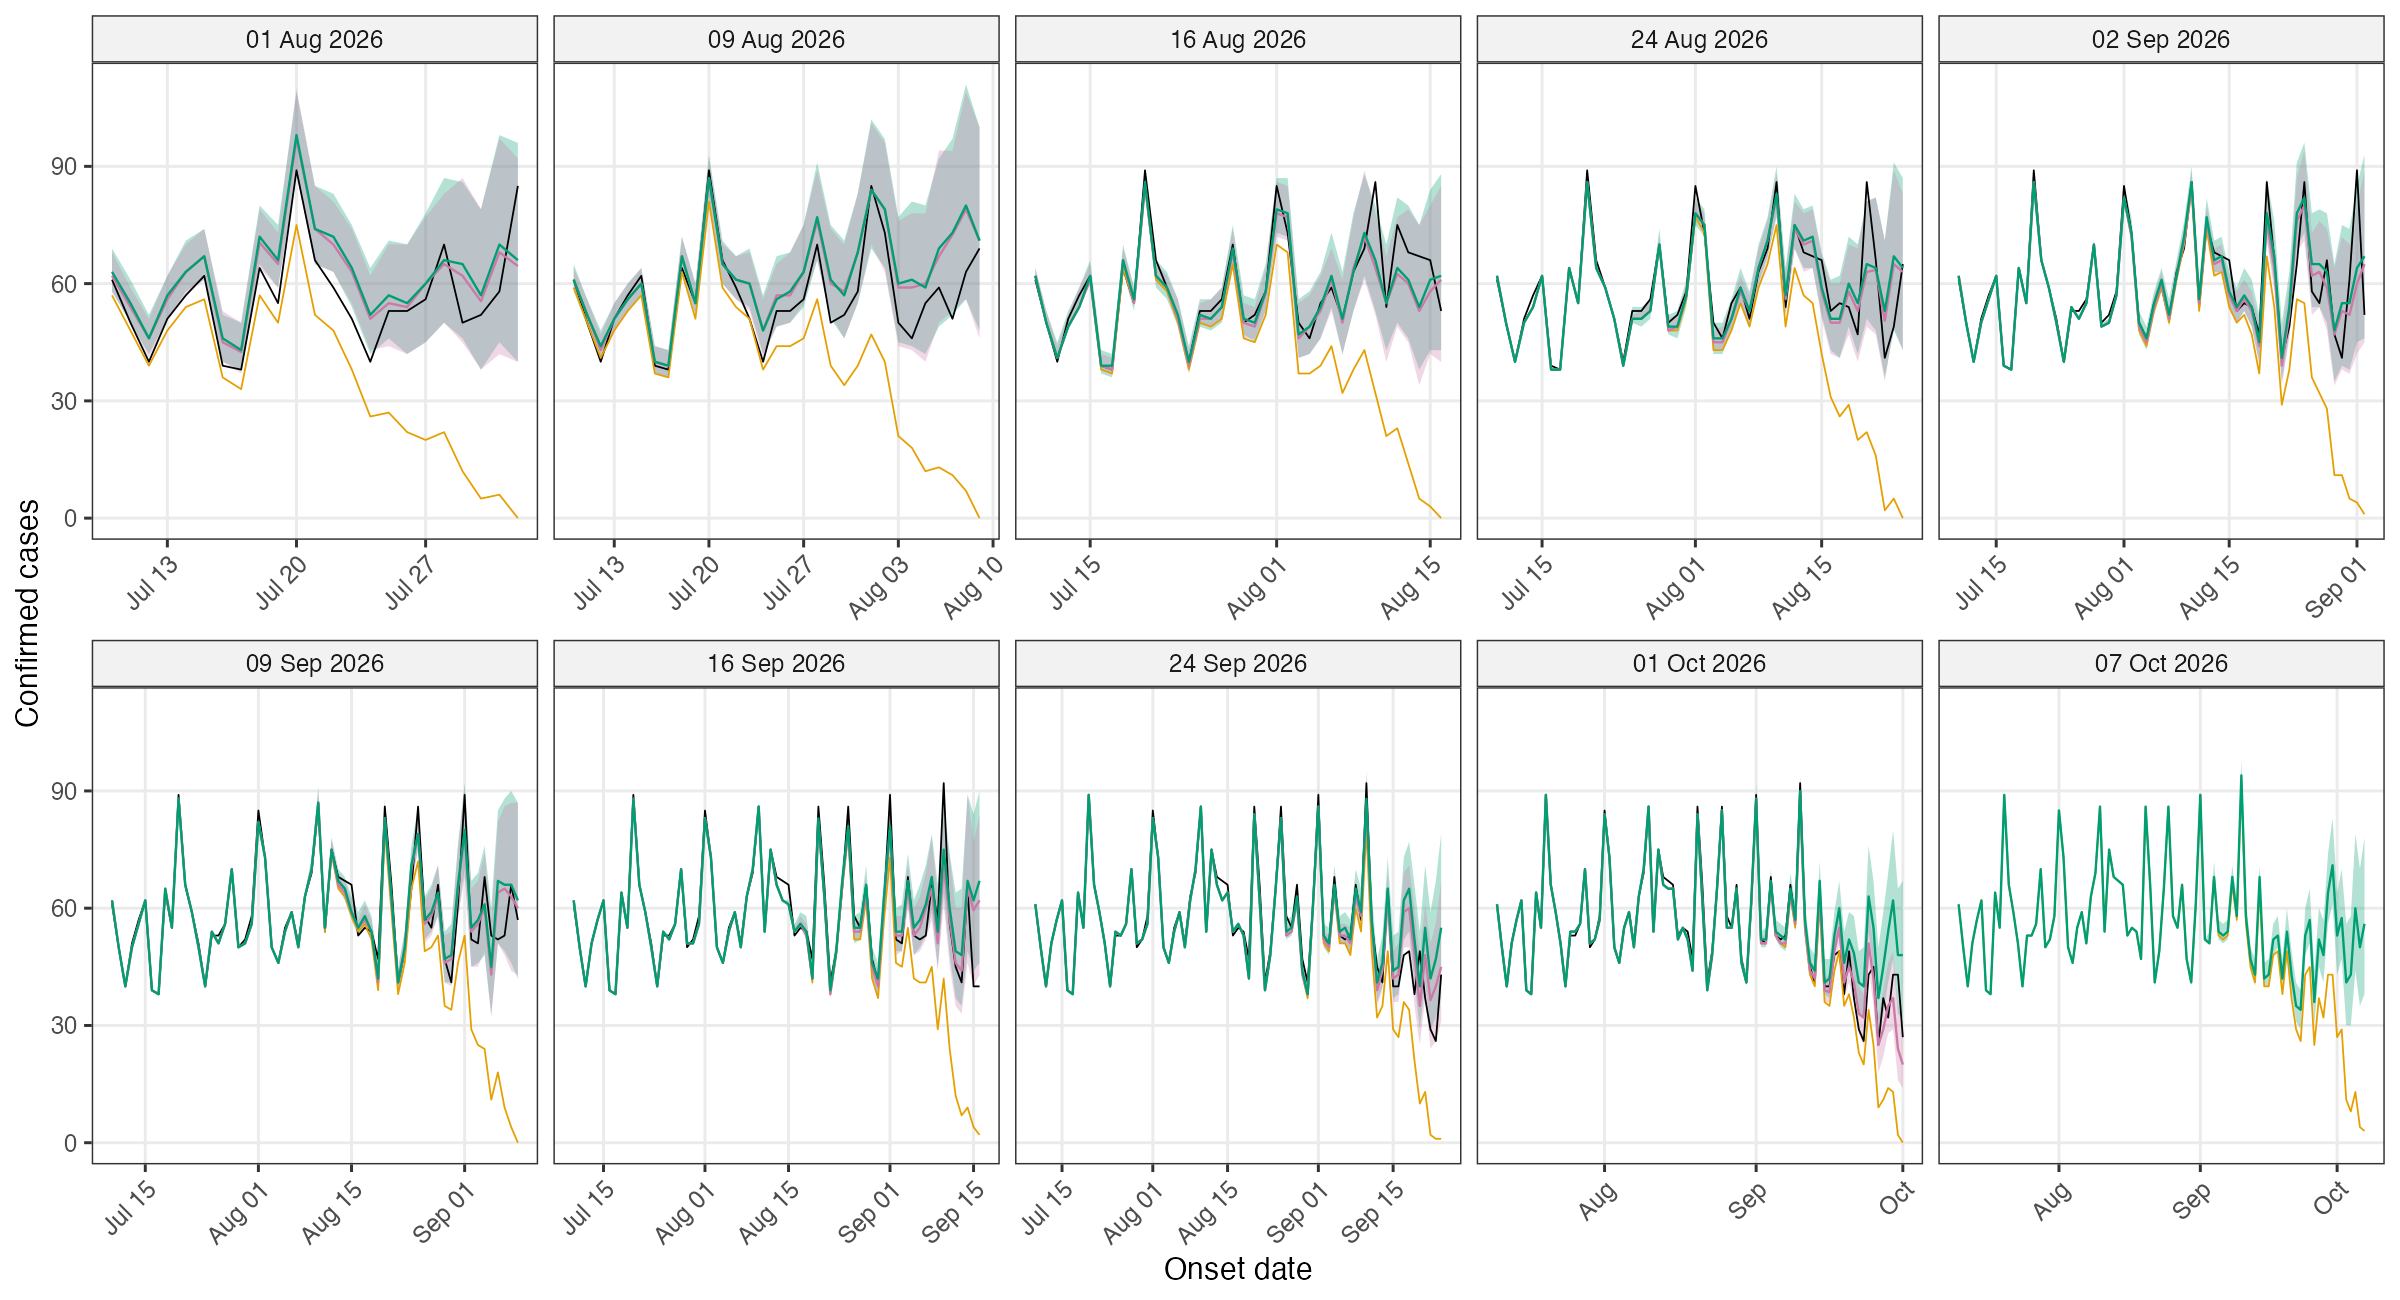
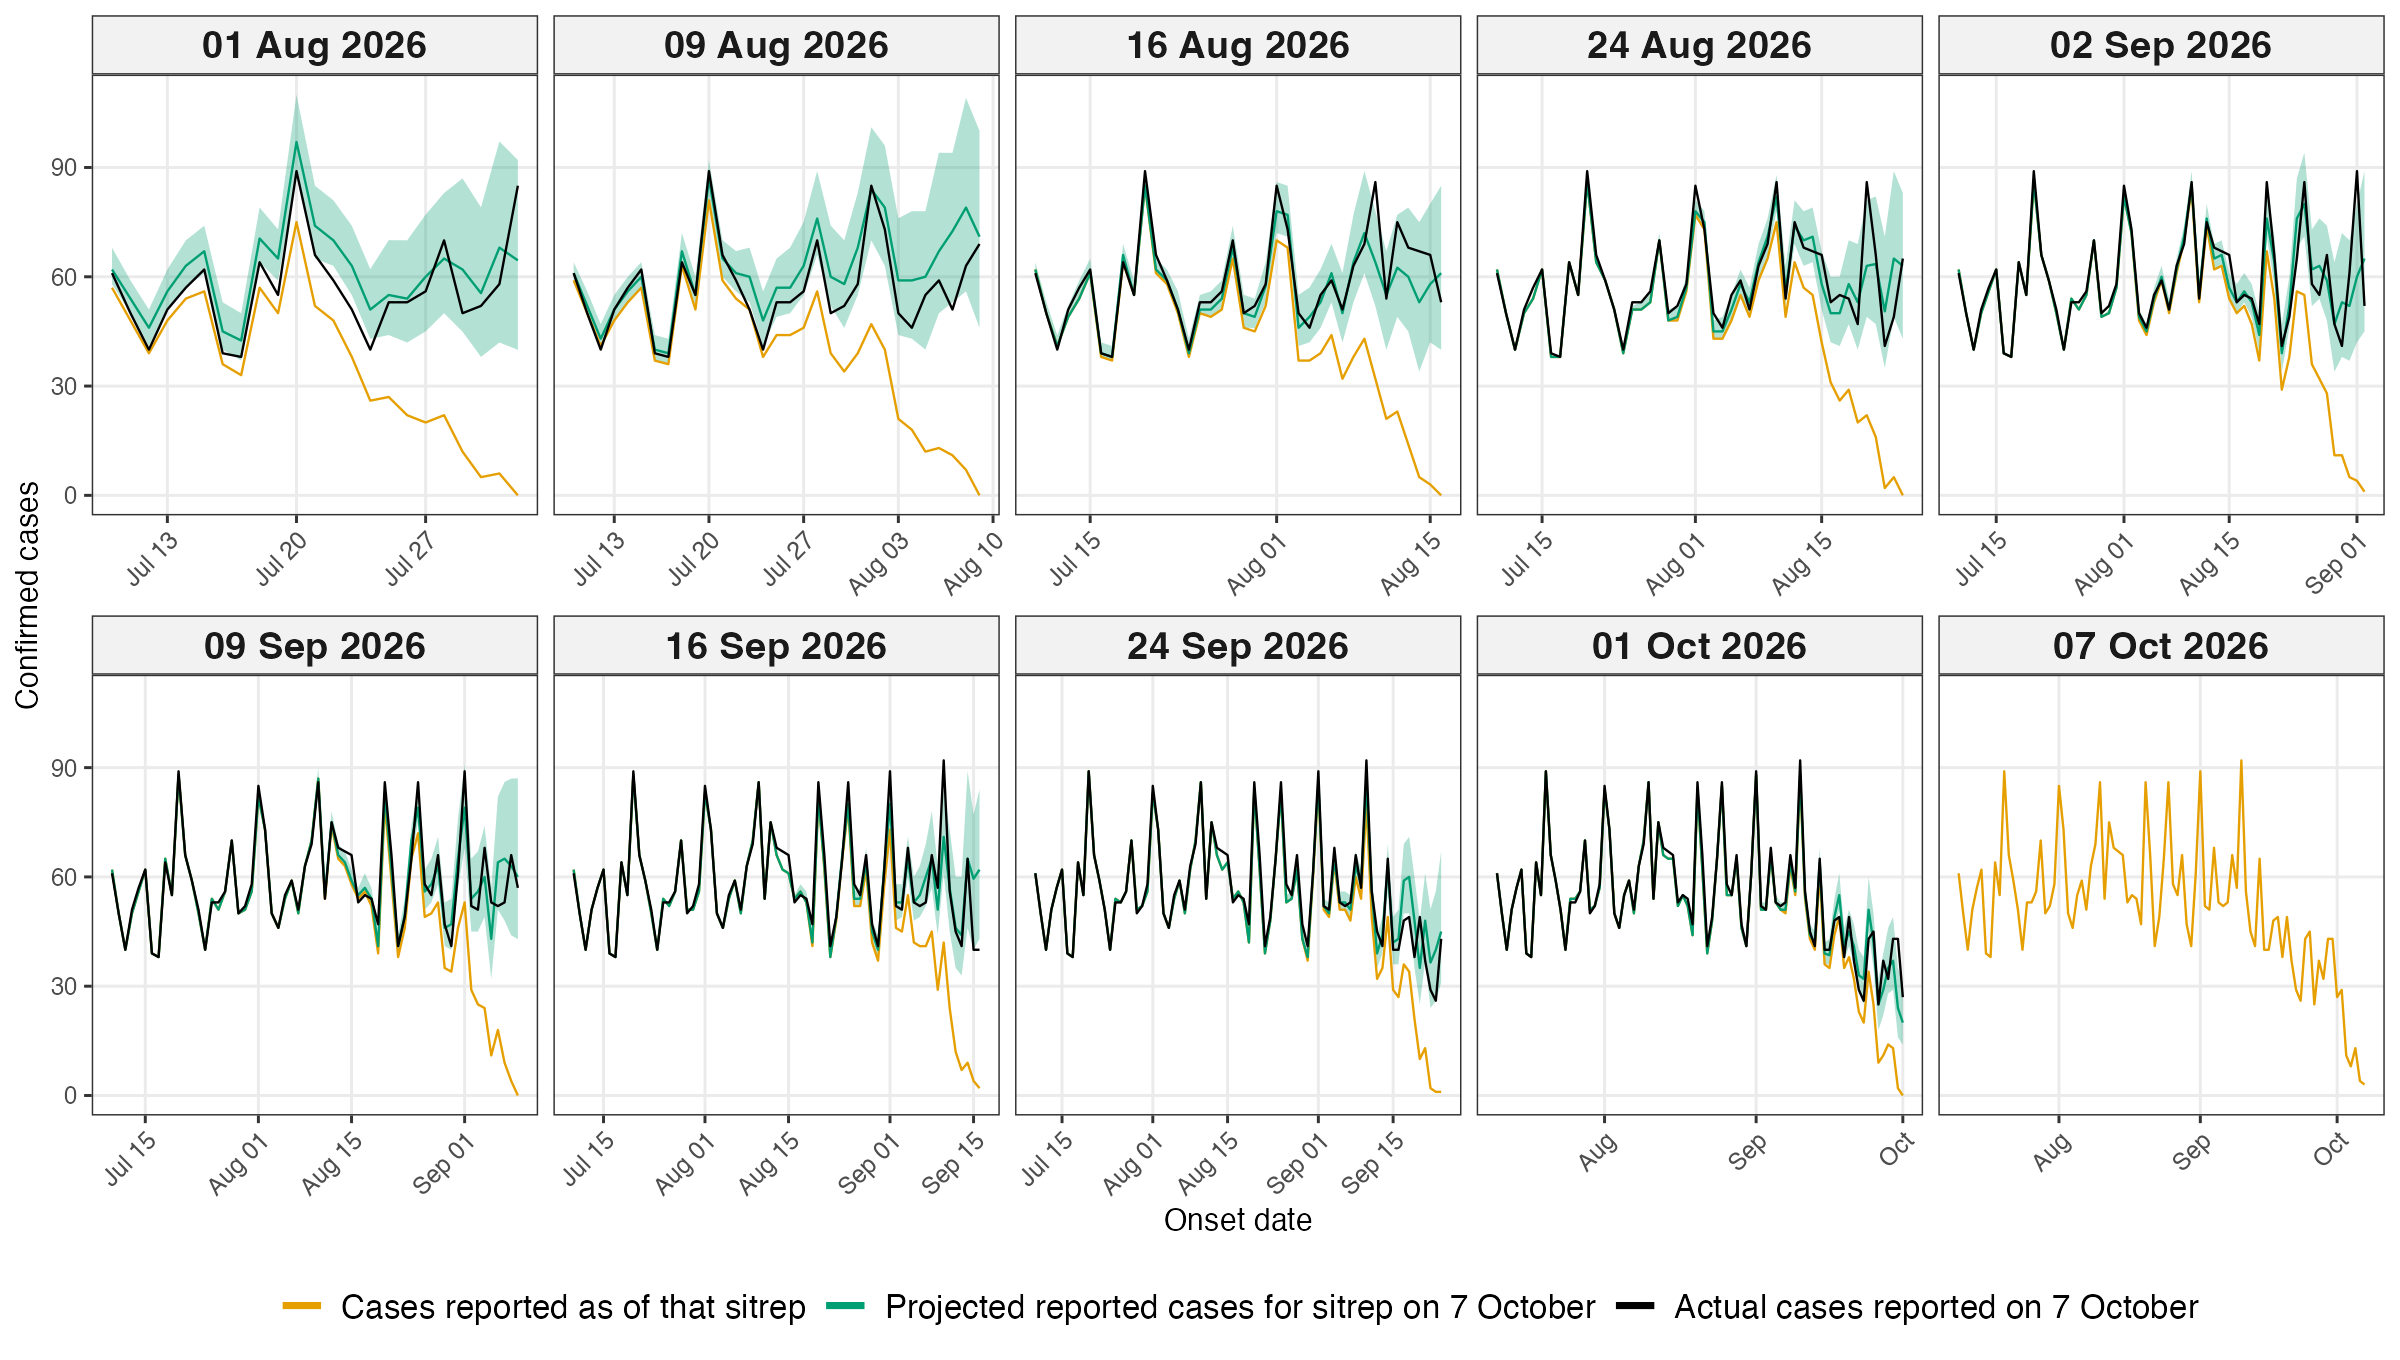
Death slides: define p^F, p^N and p^dead; the share shown as dead by days from onset to report; fits to past sitreps with a legend

diff --git a/docs/bvd_death_slides.tex b/docs/bvd_death_slides.tex
@@ -186,8 +186,6 @@ Fatal cases reported, death recorded & $D(t\given t_j)$ & dead \\
 \begin{itemize}
 \item Observed: $C=C^{N}+C^{F}$ and $D$.
 \item Not observed: the split of $C$ into $C^{F}$ and $C^{N}$.
-\item So each onset day has one unobserved path over reports,
-$C^{F}(t\given t_1),\,C^{F}(t\given t_2),\dots$
 \end{itemize}
 \end{frame}
 
@@ -199,7 +197,7 @@ $C^{F}(t\given t_1),\,C^{F}(t\given t_2),\dots$
 \text{non-fatal cases new to the report}\quad
  & \Delta C^{N}(t\given t_j)\sim\bin\bigl(N(t)-C^{N}(t\given t_{j-1}),\ p^{N}(t\given t_j)\bigr)\\[3pt]
 \text{new cases already shown as dead}\quad
- & \dnew(t\given t_j)\sim\bin\bigl(\Delta C^{F}(t\given t_j),\ g(t\given t_j)\bigr)\\[3pt]
+ & \dnew(t\given t_j)\sim\bin\bigl(\Delta C^{F}(t\given t_j),\ p^{\text{dead}}(t\given t_j)\bigr)\\[3pt]
 \text{cases shown as alive before, now dead}\quad
  & \dold(t\given t_j)\sim\bin\Bigl(C^{F}(t\given t_{j-1})-D(t\given t_{j-1}),\
  1-\frac{S^{D}(t\given t_j)}{S^{D}(t\given t_{j-1})}\Bigr)
@@ -210,34 +208,48 @@ Observed: $\Delta C=\Delta C^{F}+\Delta C^{N}$ and $\Delta D=\dnew+\dold$.
 
 \medskip
 \begin{itemize}
-\item Example: 10 cases, 3 dead, then 12 cases, 5 dead. The 2 new deaths may
-be among the 7 shown as alive before, or the 2 new cases, or one of each.
-\item Given $I(t)$ and $F(t)$, each onset day is a hidden Markov chain over
-reports, with state $C^{F}$. The likelihood sums over its paths exactly.
+\item $p^{F}(t\given t_j)$: probability a fatal case not in the report of
+$t_{j-1}$ is in that of $t_j$.
+\item $p^{N}(t\given t_j)$: the same for a non-fatal case. With independent
+delays, $p^{F}=p^{N}=1-S^{C}(t\given t_j)/S^{C}(t\given t_{j-1})$.
+\item $p^{\text{dead}}(t\given t_j)$: probability a fatal case new to the
+report of $t_j$ is already shown as dead in it. With independent delays,
+$p^{\text{dead}}=1-S^{D}(t\given t_j)$.
 \end{itemize}
 \end{frame}
 
 % ---------------------------------------------------------------------------
 \begin{frame}{A puzzle: deaths shown very early}
-If $T_C$ and $T_D$ were independent, the share of reported cases shown as dead
-at time $u$ since onset would be $\cfr_t\,[1-S^{D}(u)]$: near zero at first,
-then rising. The reports (onset days 12 July to 5 September):
+For each onset day and each report, take the cases of that onset day shown
+in the report and the share of them shown as dead. Group by the days from
+onset to report (onset days 12 July to 5 September):
 
 \medskip
 \begin{center}
-\renewcommand{\arraystretch}{1.25}
-\begin{tabular}{lc}
+\small
+\renewcommand{\arraystretch}{1.15}
+\begin{tabular}{ccc}
 \toprule
-Time since onset & Share shown as dead \\
+Days from & Cases shown & Share shown \\
+onset to report & (summed over reports) & as dead \\
 \midrule
-0 to 1 days & 0.43 \\
-About a week & 0.34 \\
-2 to 3 months & 0.46 \\
+0--1 & 148 & 0.43 \\
+2--7 & 3,970 & 0.35 \\
+8--14 & 10,850 & 0.37 \\
+15--28 & 27,014 & 0.41 \\
+29--42 & 28,766 & 0.44 \\
+43 or more & 39,158 & 0.46 \\
 \bottomrule
 \end{tabular}
 \end{center}
 
-\medskip
+If $T_C$ and $T_D$ were independent, this share would be about
+$\cfr_t\,[1-S^{D}(u)]$ at $u$ days: near zero at first, then rising.
+Instead, it starts high (0.43), dips, then rises again.
+\end{frame}
+
+% ---------------------------------------------------------------------------
+\begin{frame}{A puzzle: deaths shown very early}
 \begin{itemize}
 \item To fit this with independent delays, $T_D$ needs a spike near zero and
 a very long tail (gamma shape about 0.2, mean 46 days).
@@ -245,8 +257,10 @@ a very long tail (gamma shape about 0.2, mean 46 days).
 \end{itemize}
 
 \bigskip
-Two explanations, not exclusive: deaths bring about reports, and some
-deaths are counted on the day of death.
+There are two potential explanations we consider in what follows for these
+patterns: a person dying actually triggers a case to be reported or some
+proportion of cases that die have their date of onset recorded as their date
+of death.
 \end{frame}
 
 % ---------------------------------------------------------------------------
@@ -271,8 +285,8 @@ p^{F}(t\given t_j)=1-\frac{M(t\given t_j)}{M(t\given t_{j-1})}.
 \begin{itemize}
 \item Fatal cases are reported sooner than others, and early reports are
 more often fatal.
-\item Only $p^{F}$ and $g$ change; the hidden state is unchanged, so the
-likelihood is still exact.
+\item Only $p^{F}$ and $p^{\text{dead}}$ change, so the likelihood keeps
+the same form.
 \item $\tau=0$ is the independent model. $\tau\sim\operatorname{beta}(1,1)$.
 \end{itemize}
 \end{frame}
@@ -470,17 +484,15 @@ but much about deaths,} which go on being recorded for weeks.
 \end{frame}
 
 % ---------------------------------------------------------------------------
-\begin{frame}{Fits to past reports: deaths}
+\begin{frame}{Fits to past sitreps: deaths}
 \centering
-\includegraphics[height=0.72\textheight]{bvd_deaths_fits_deaths.png}
+\includegraphics[height=0.8\textheight]{bvd_deaths_fits_deaths.png}
 
-{\small Green: eventual deaths (median, 90\% interval). Orange: the report of
-the fit date. Purple: projected for the report of 7 October. Black: that
-report.}
+{\small Panels: the date of each fit. Shading: 90\% interval of the projection.}
 \end{frame}
 
 % ---------------------------------------------------------------------------
-\begin{frame}{Fits to past reports: deaths in the latest 28 onset days}
+\begin{frame}{Fits to past sitreps: deaths in the latest 28 onset days}
 \centering
 \renewcommand{\arraystretch}{1.2}
 \begin{tabular}{lcccc}
@@ -680,12 +692,11 @@ effects on the whole delay also speed up recent deaths.
 many records.)}
 \end{frame}
 
-\begin{frame}{Appendix: fits to past reports, cases}
+\begin{frame}{Appendix: fits to past sitreps, cases}
 \centering
-\includegraphics[height=0.72\textheight]{bvd_deaths_fits_cases.png}
+\includegraphics[height=0.8\textheight]{bvd_deaths_fits_cases.png}
 
-{\small As for deaths: green eventual, orange the report of the fit date,
-purple projected for 7 October, black that report.}
+{\small Panels: the date of each fit. Shading: 90\% interval of the projection.}
 \end{frame}
 
 % ---------------------------------------------------------------------------
